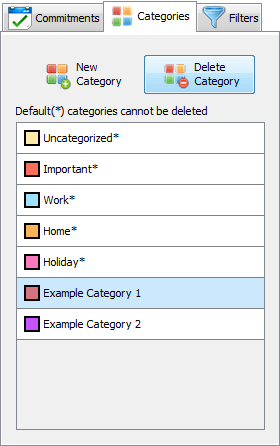
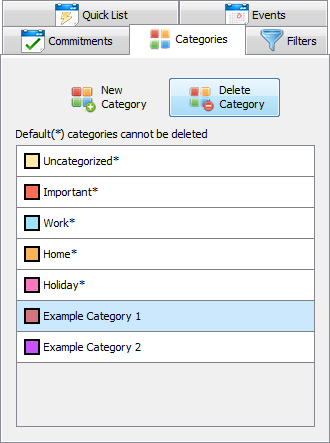
updated images to reflect new UI

diff --git a/Calendar/help/Categories.html b/Calendar/help/Categories.html
@@ -13,11 +13,11 @@
 
 <h1>Adding a Category</h1>
 <p>In order to add a category, first locate and select the category tab on the right. <br>
-<img src="category-panel.png" alt="Category Panel" width="280" height="446">
+<img src="category-panel.png" alt="Category Panel" width="330" height="443">
 <br>
 Once selected, the panel will show two buttons and a list of categories. Click the button that says 
 New Category. <br>
-<img src="category-new.png" alt="Category Panel" width="280" height="446">
+<img src="category-new.png" alt="Category Panel" width="330" height="443">
 <br>
 The new panel will change to show a text box for a category name and a color picker. 
 Enter a name and choose a color, and then click the OK button. The new category will 
@@ -27,7 +27,7 @@ then be added to the category list.
 <h1>Deleting a Category</h1>
 <p>To delete a category, first locate the category on the Category List Panel. 
 Click it once so that the category is highlighted. <br>
-<img src="category-delete1.png" alt="Category Panel" width="280" height="446">
+<img src="category-delete1.png" alt="Category Panel" width="330" height="443">
 <br>
 Once the category is highlighted, locate the Delete Category button at the top 
 of the panel. Press this button to delete the category.<br>
@@ -35,7 +35,7 @@ of the panel. Press this button to delete the category.<br>
 Multiple categories can be deleted at a time. To delete multiple categories, 
 first select all of the categories to be deleted. To select multiple categories, 
 hold the Ctrl/command key and click on the desired categories.<br>
-<img src="category-delete2.png" alt="Category Panel" width="280" height="446">
+<img src="category-delete2.png" alt="Category Panel" width="330" height="443">
 <br>
 Once the categories are highlighted, locate the Delete Category button. Press this button to delete the categories.
 </p>

diff --git a/Calendar/help/Commitments.html b/Calendar/help/Commitments.html
@@ -26,7 +26,7 @@ The new commitment will appear on the calendar and in the Commitment List Panel.
 <h1>Editing a Commitment</h1>
 <p>To edit a commitment, first locate the commitment on the Commitment List Panel. 
 Right click on the commitment. <br>
-<img src="commitment-edit.png" alt="Commitment Panel" width="280" height="446">
+<img src="commitment-edit.png" alt="Commitment Panel" width="330" height="443">
 <br>
 This brings up a small context menu. Choose the edit button.<br>
 <br>
@@ -39,17 +39,15 @@ the standard view.
 <h1>Deleting a Commitment</h1>
 <p>To delete a commitment, first locate the commitment on the Commitment List Panel. 
 Highlight the commitment by clicking on it. <br>
-<img src="commitment-delete.png" alt="Commitment Panel" width="280" height="446">
 <br>
-Once the commitment is highlighted, locate the Delete Commitment button. Press this 
-button to delete the commitment. <br>
+Once the commitment is highlighted, you can either press the Delete button at the top of the screen, 
+or right-click and select "Delete" from the context menu. <br>
 <br>
 Multiple commitments can be deleted at a time. To delete multiple commitments, 
 first select all of the commitments to be deleted. To select multiple commitments, 
 hold the Ctrl/command key and click on the desired commitments. <br>
 <br>
-Once the commitments are highlighted, locate the Delete Commitment button. 
-Press this button to delete the commitments.
+Once the commitments are highlighted, press the Delete button at the top of the screen.
 </p>
 </body>
 </html>

diff --git a/Calendar/help/Filters.html b/Calendar/help/Filters.html
@@ -17,7 +17,7 @@ panel of the GUI.<br>
 <br>
 Once selected, the panel will show two buttons and a collection of radio buttons below. 
 Click the button that says Add Filter.<br>
-<img src="filter-add.png" alt="Filter Panel" width="280" height="446">
+<img src="filter-add.png" alt="Filter Panel" width="330" height="443">
 <br>
 The panel will change to show the components used to create a filter. Enter a name 
 in the appropriate textbox and select the categories you would like to see once the 
@@ -39,7 +39,7 @@ Click it once so that the filter is highlighted. <br>
 <br>
 Once the filter is highlighted, locate the Delete Filter button in the 
 Filter List Panel. Press this button to delete the filter.<br>
-<img src="filter-delete.png" alt="Filter Panel" width="280" height="446">
+<img src="filter-delete.png" alt="Filter Panel" width="330" height="443">
 <br>
 Multiple filters can be deleted at a time. To delete multiple filters, 
 first select all of the filters to be deleted. To select multiple filters, 
